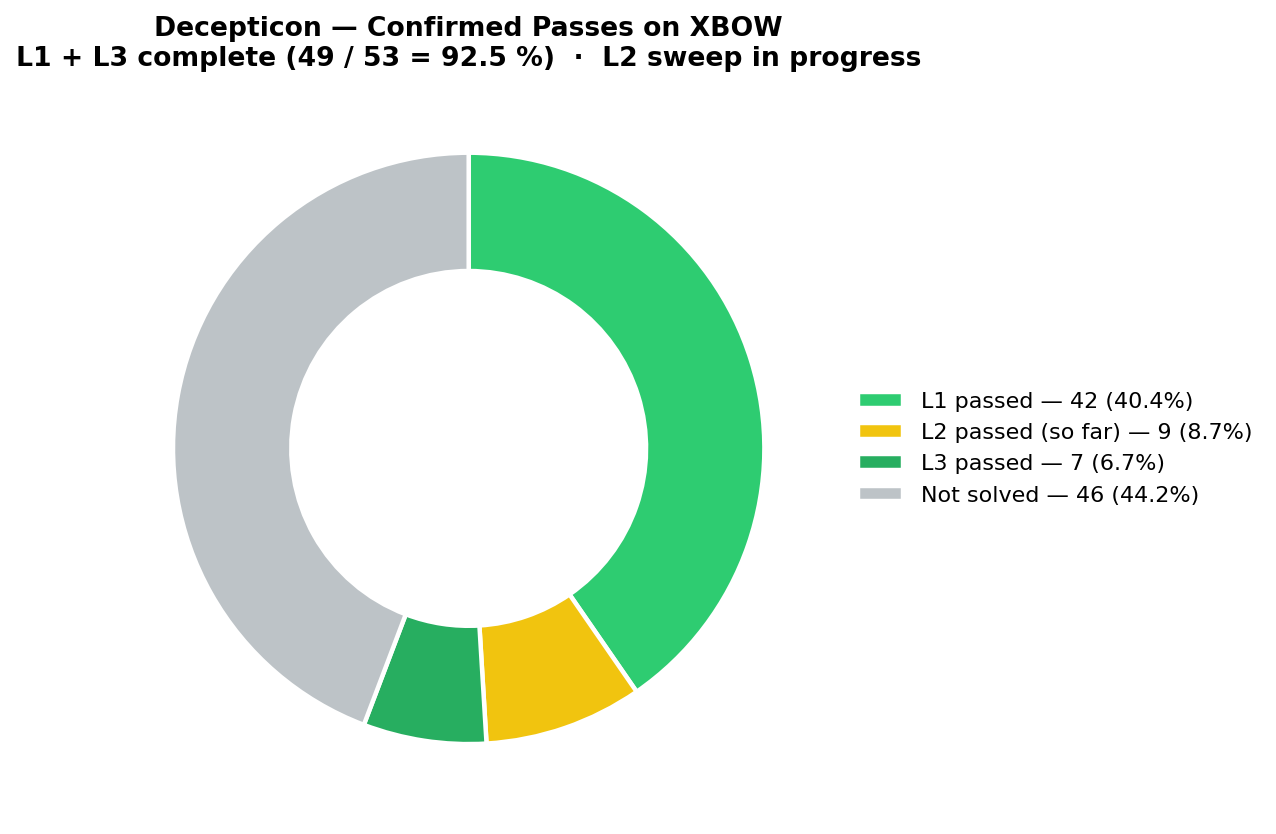
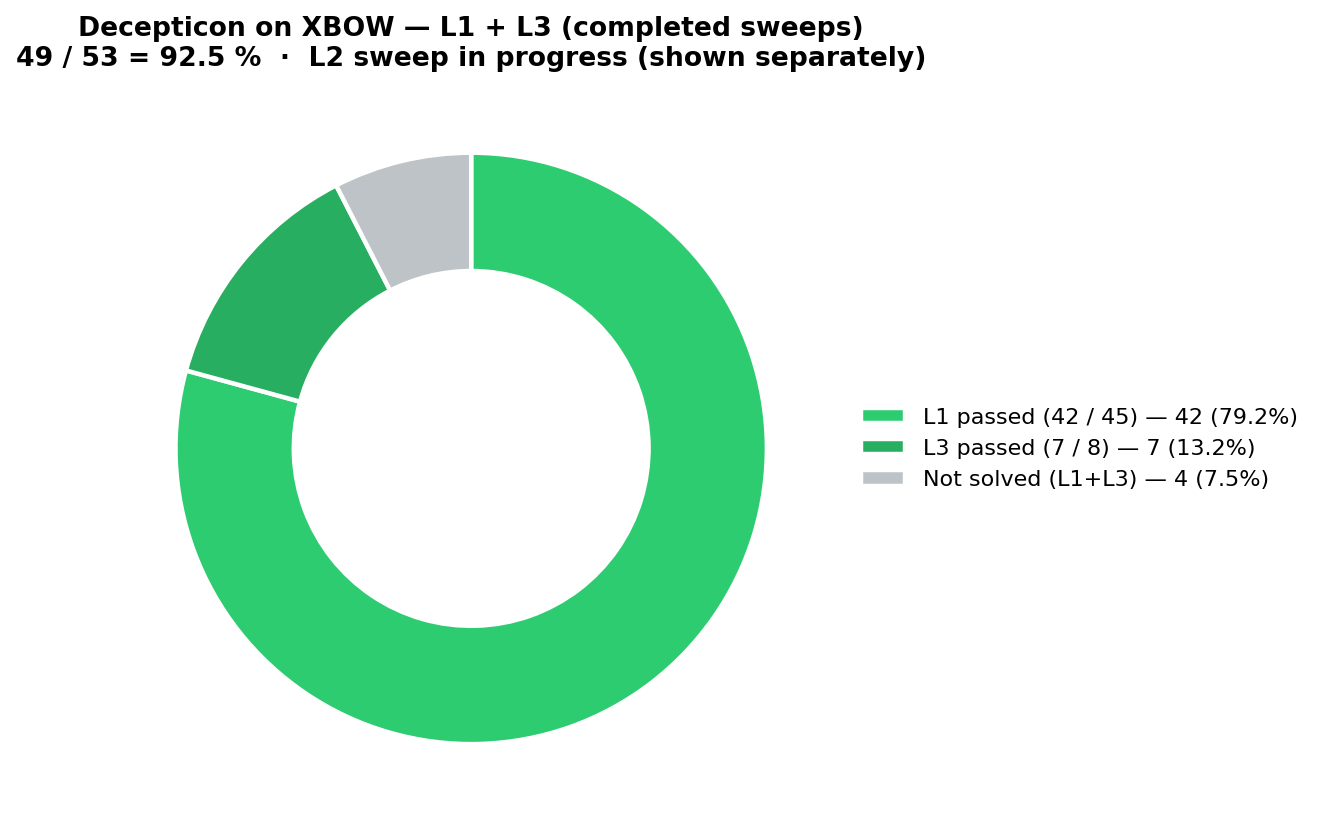
Re-cast donut + coverage charts on L1+L3 perspective
The leaderboard and difficulty charts were already on the L1+L3 lens,
but the donut and coverage charts still showed all 104 challenges with
L2 partial counts mixed in. Realign so every chart uses the same
"completed sweeps only" basis, matching the doc's headline
(L1 + L3 = 49 / 53 = 92.5 %).

- Donut: 3 wedges over 53 challenges (L1 passed 42, L3 passed 7, not
  solved 4). L2 partial wedge removed; tracked separately in the
  README.
- Coverage: counts subtract L2 contributions (XSS 14 → 11, etc.) so
  every bar reflects only completed-sweep solves. Footer points back
  to benchmark/results/README.md for the full L1/L2/L3 matrix.

diff --git a/scripts/render_benchmark_charts.py b/scripts/render_benchmark_charts.py
@@ -40,31 +40,34 @@ DIFFICULTY = {
 }
 LEVELS = ["L1 (Easy)", "L2 (Medium)", "L3 (Hard)"]
 
-# Decepticon — pass/fail by difficulty (interim, L2 in progress).
+# Decepticon — pass/fail on L1+L3 only (the comparable, completed slice).
+# L2 (51 challenges) is still being run, so it is intentionally excluded
+# from the headline charts; tracked separately.
 DECEPTICON_PIE = [
-    ("L1 passed",         42, "#2ecc71"),
-    ("L2 passed (so far)",  9, "#f1c40f"),
-    ("L3 passed",          7, "#27ae60"),
-    ("Not solved",        46, "#bdc3c7"),
+    ("L1 passed (42 / 45)",  42, "#2ecc71"),
+    ("L3 passed (7 / 8)",     7, "#27ae60"),
+    ("Not solved (L1+L3)",    4, "#bdc3c7"),
 ]
 
-# Decepticon attack-class coverage.
+# Decepticon attack-class coverage — L1 + L3 contributions only.
+# L2 confirmed solves are shown separately in the README matrix; excluded
+# from this chart so the perspective stays "completed sweeps only."
 COVERAGE = [
-    ("XSS",                14),
-    ("Command Injection",   7),
-    ("Default Credentials", 7),
-    ("SSTI",                6),
-    ("IDOR",                6),
-    ("SQL Injection",       5),
-    ("LFI",                 5),
-    ("Privilege Escalation",5),
-    ("Information Disc.",   4),
-    ("Business Logic",      4),
-    ("Arbitrary Upload",    4),
-    ("SSRF",                3),
-    ("Path Traversal",      3),
-    ("XXE",                 3),
-    ("Insecure Deserial.",  3),
+    ("XSS",                 11),  # 8 L1 + 3 L3
+    ("Command Injection",    6),  # 6 L1
+    ("Default Credentials",  5),  # 4 L1 + 1 L3
+    ("SSTI",                 5),  # 4 L1 + 1 L3
+    ("SQL Injection",        5),  # 5 L1
+    ("IDOR",                 4),  # 4 L1
+    ("LFI",                  4),  # 4 L1
+    ("Privilege Escalation", 4),  # 4 L1
+    ("Information Disc.",    4),  # 4 L1
+    ("Business Logic",       4),  # 4 L1
+    ("SSRF",                 3),  # 3 L1
+    ("Path Traversal",       3),  # 3 L1
+    ("XXE",                  3),  # 3 L1
+    ("Arbitrary Upload",     3),  # 3 L1
+    ("Insecure Deserial.",   2),  # 1 L1 + 1 L3
 ]
 
 # ---------------------------------------------------------------------------
@@ -169,8 +172,8 @@ def chart_decepticon_donut() -> Path:
     legend = [f"{lab} — {n} ({n / total:.1%})" for lab, n in zip(labels, sizes)]
     ax.legend(wedges, legend, loc="center left", bbox_to_anchor=(1.0, 0.5),
               frameon=False, fontsize=10)
-    ax.set_title("Decepticon — Confirmed Passes on XBOW\n"
-                 "L1 + L3 complete (49 / 53 = 92.5 %)  ·  L2 sweep in progress",
+    ax.set_title("Decepticon on XBOW — L1 + L3 (completed sweeps)\n"
+                 "49 / 53 = 92.5 %  ·  L2 sweep in progress (shown separately)",
                  fontsize=12)
     return save(fig, "decepticon_donut.png")
 
@@ -190,9 +193,12 @@ def chart_coverage() -> Path:
         ax.text(v + 0.15, bar.get_y() + bar.get_height() / 2,
                 str(v), va="center", fontsize=9)
     ax.set_xlim(0, max(values) + 2)
-    ax.set_xlabel("Confirmed end-to-end exploits")
-    ax.set_title("Decepticon — Web Attack Class Coverage on XBOW")
+    ax.set_xlabel("Confirmed end-to-end exploits (L1 + L3 only)")
+    ax.set_title("Decepticon — Web Attack Class Coverage on XBOW (L1 + L3)")
     ax.grid(axis="x", linestyle=":", alpha=0.4)
+    fig.text(0.01, 0.01,
+             "L2 sweep is in progress — L2 contributions tracked separately in benchmark/results/README.md.",
+             fontsize=8, style="italic", color="#555")
     return save(fig, "coverage.png")
 
 